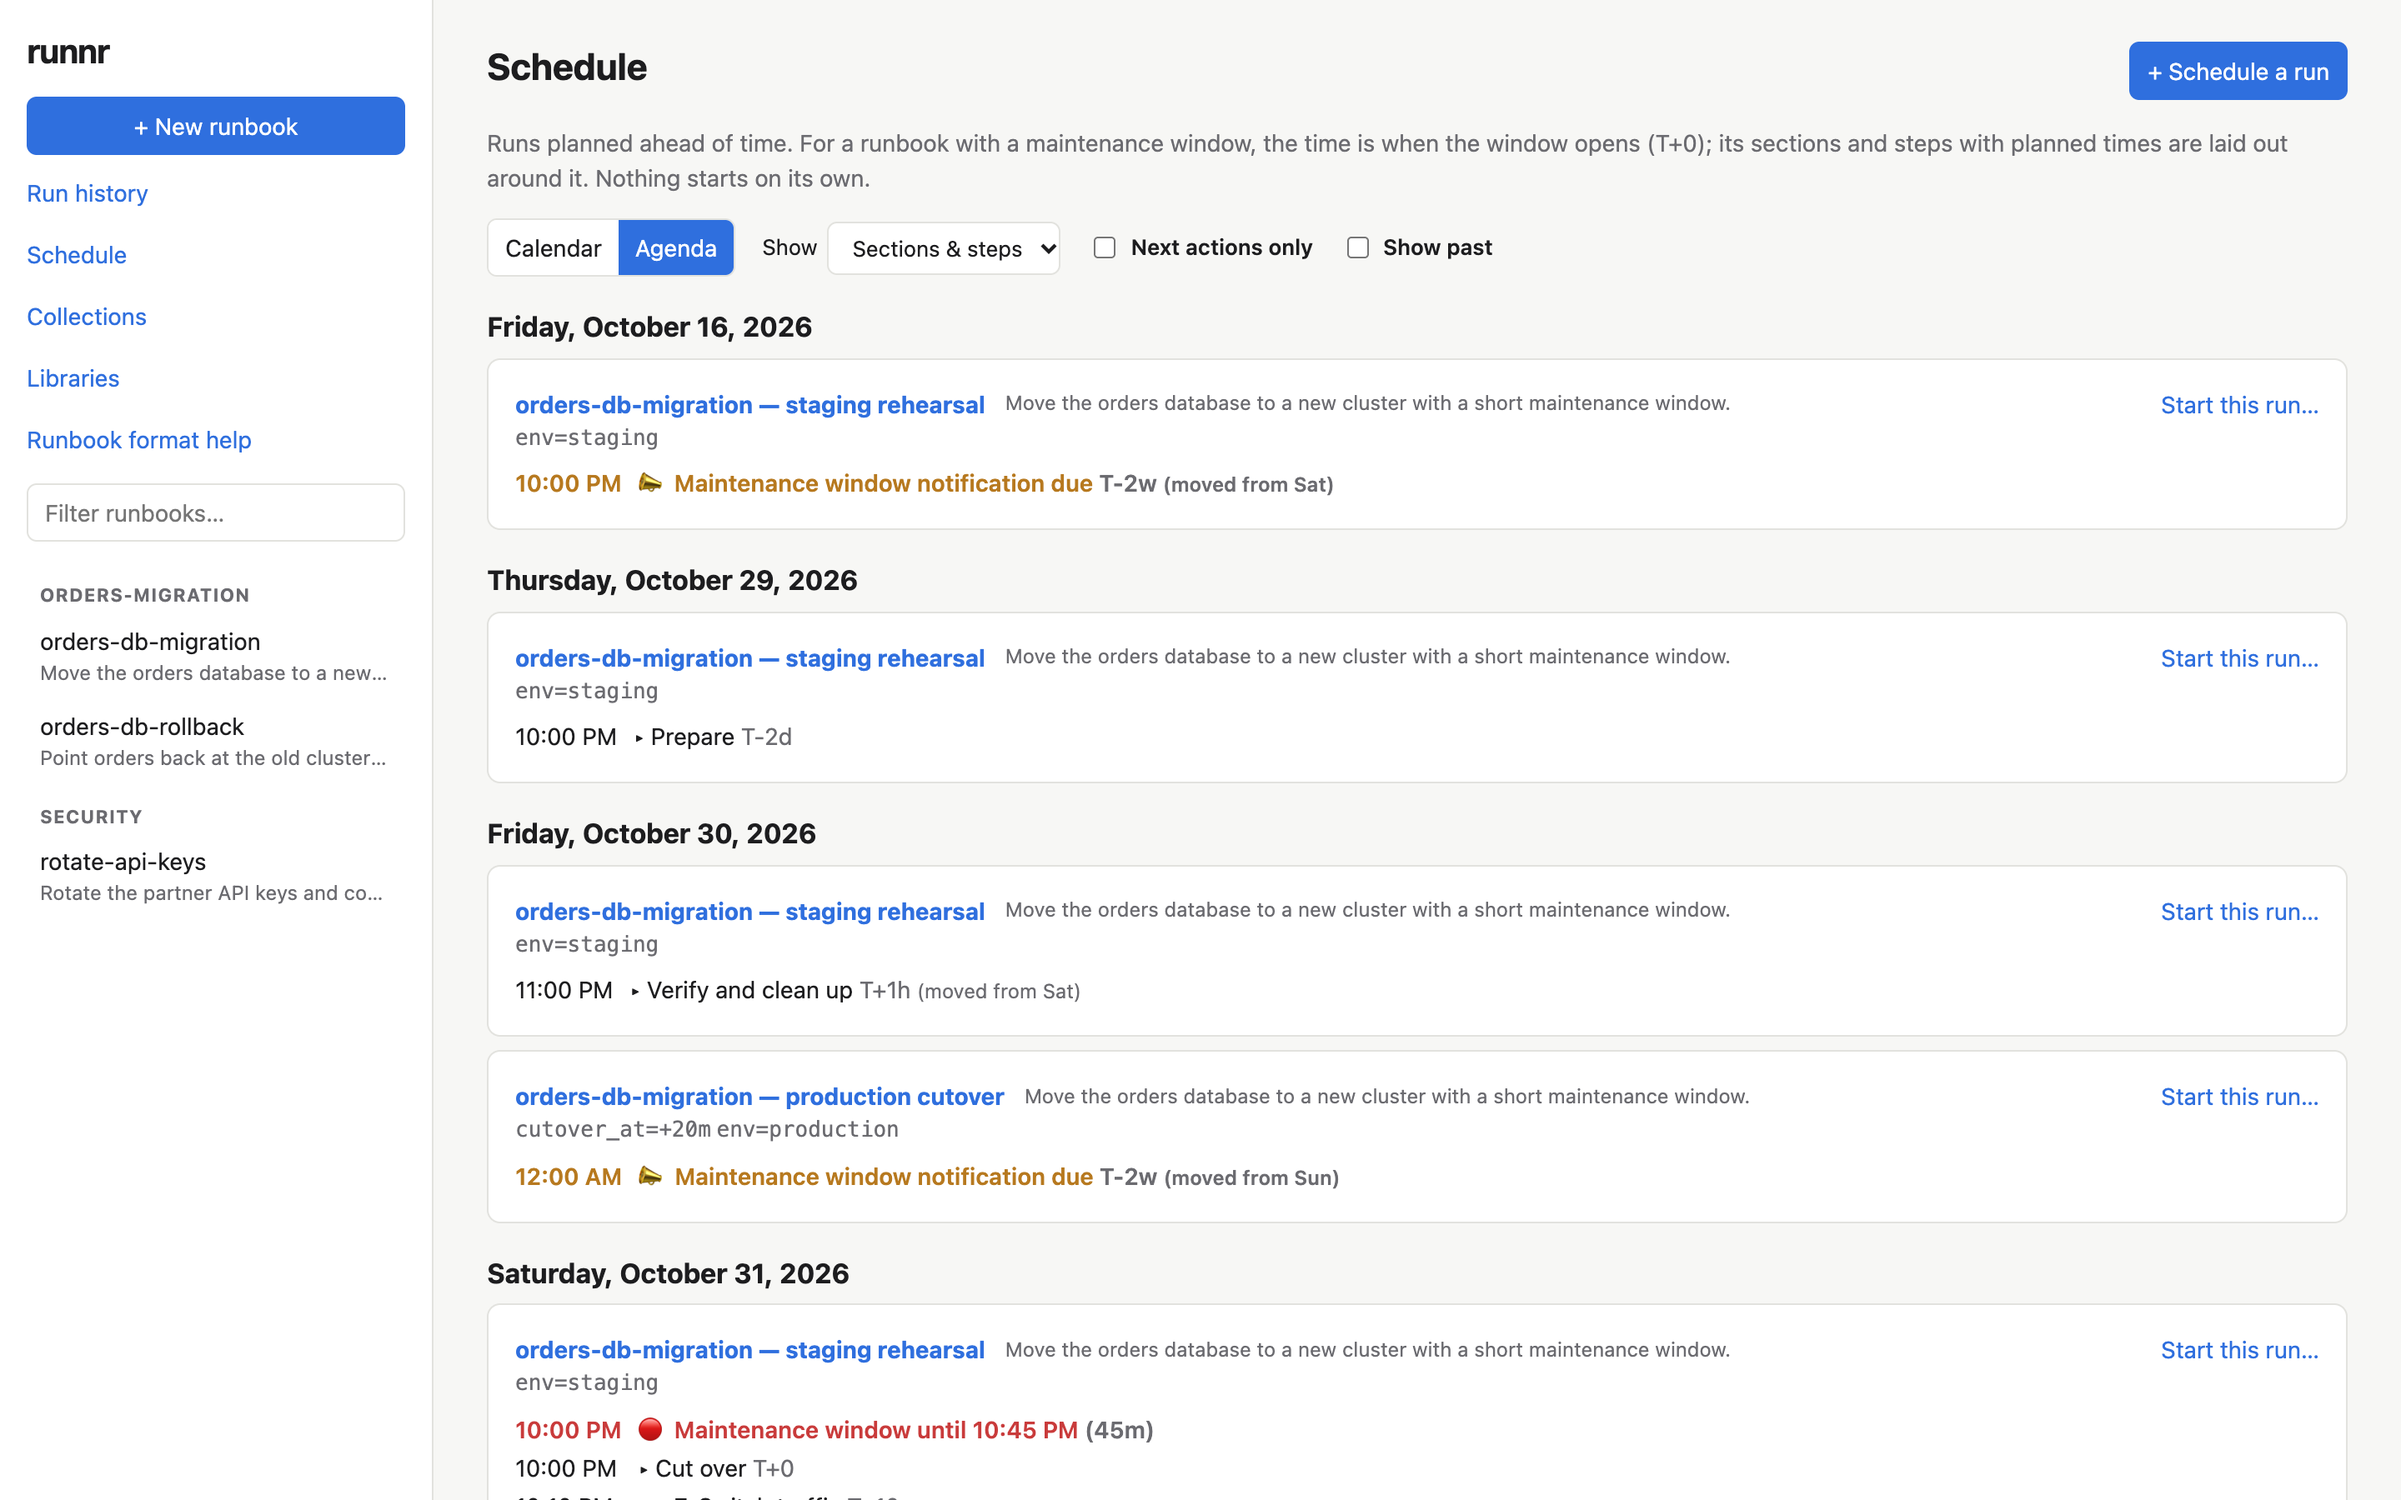
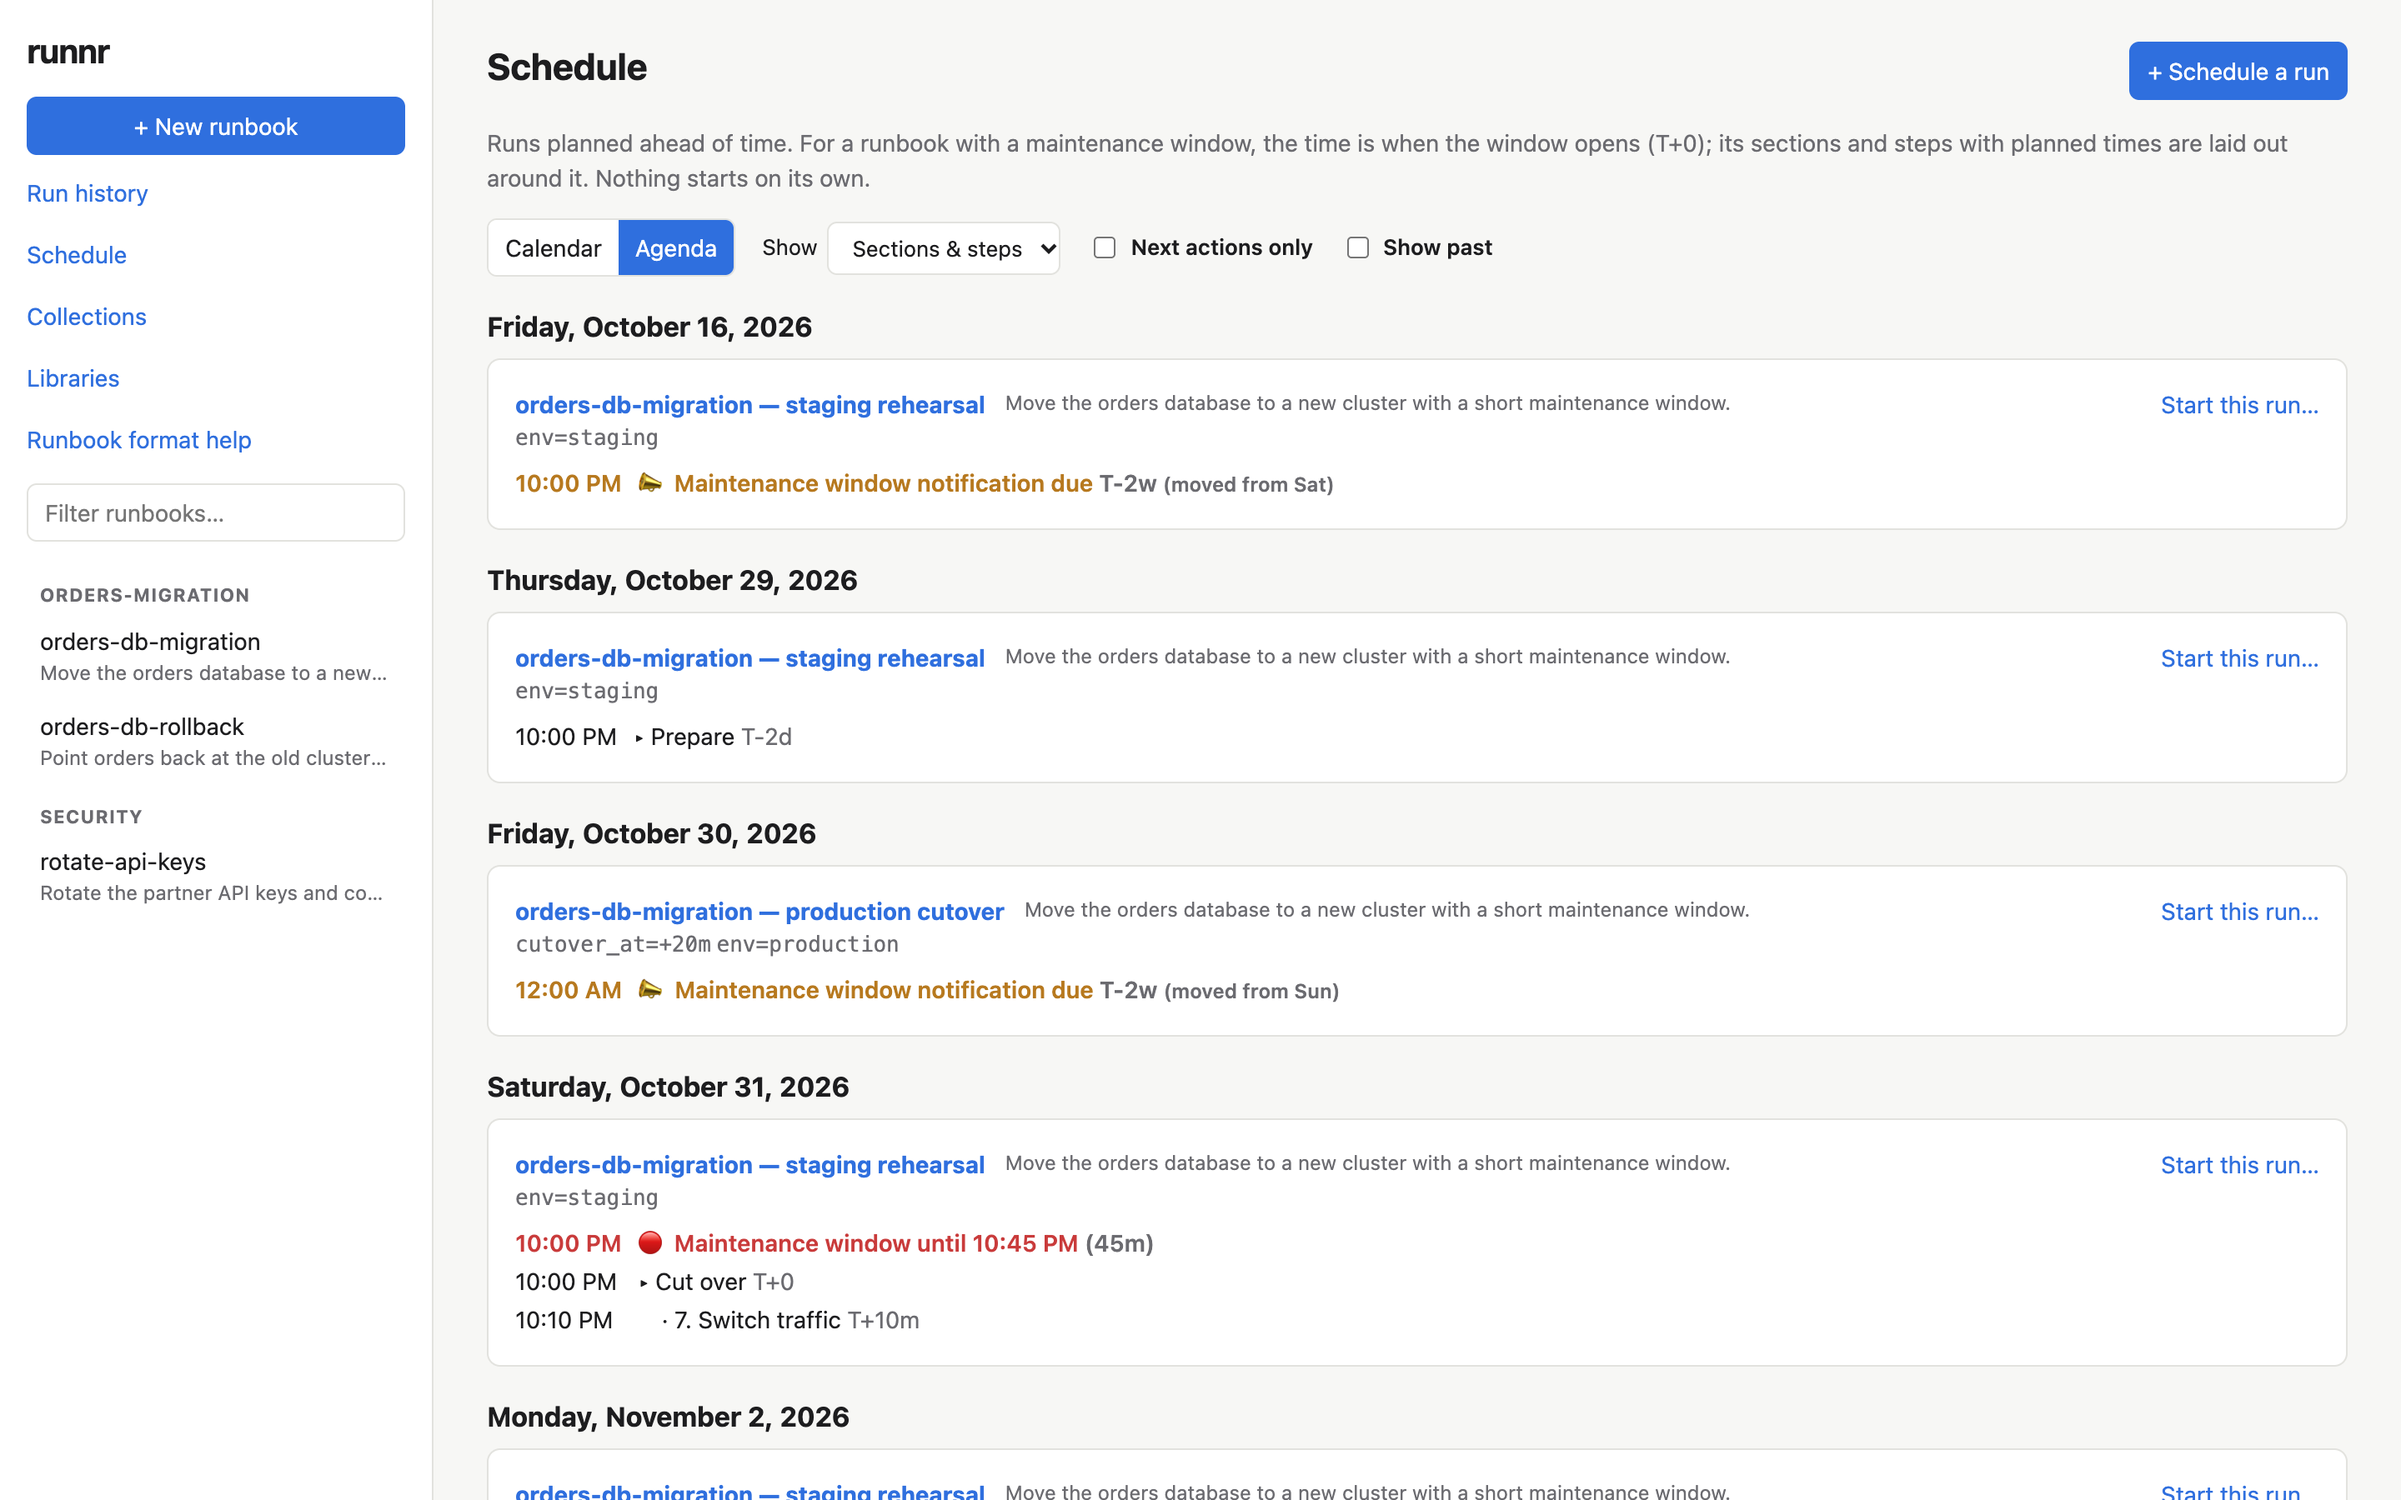
Docs: a CLI tour with terminal screenshots
docs/CLI.md walks through the CLI with the demo runbook: listing, inspect,
an interactive run (review, setup, tty, checks, manual, background, the
maintenance window, ways), a dangerous step out of sequence, unattended
runs, the schedule agenda and history. Linked from the README and the GUI
tour. The GUI calendar and agenda shots are retaken for the weekend fix.

diff --git a/docs/CLI.md b/docs/CLI.md
@@ -1,0 +1,116 @@
+# A tour of the runnr CLI
+
+The terminal side of runnr, using the same demo runbook as the
+[GUI tour](TOUR.md): moving an "orders" database to a new cluster. The CLI
+and the GUI share one store, so a runbook saved, scheduled or run in one
+shows up in the other. Every command is listed in the
+[README](../README.md#cli); `runnr <command> --help` has the details.
+
+- [Find your way around](#find-your-way-around)
+- [Look before you run](#look-before-you-run)
+- [Running](#running)
+- [Out of sequence](#out-of-sequence)
+- [Unattended](#unattended)
+- [Schedule](#schedule)
+- [History](#history)
+- [More](#more)
+
+## Find your way around
+
+Runbooks, the collections that group them, and the function libraries
+they share.
+
+![runnr list, collection list and lib list](screenshots/cli-list.png)
+
+## Look before you run
+
+`runnr inspect` lays a runbook out the way it will run: the sections and
+their purpose, the maintenance window, what each step is (run, manual,
+checks, ways…) and when it's planned relative to the window. Give it a step
+number to see that step's code, or its ways (`*` marks the preferred one).
+Add `-v key=value` to see the code with inputs filled in, or use `--all` to
+show every step.
+
+![runnr inspect, for the whole runbook and for one step](screenshots/cli-inspect.png)
+
+## Running
+
+`runnr run` asks for any inputs you didn't pass with `-v`, then shows the
+plan. Each step's result from last time is beside it. Before you start, you
+can skip steps, set pauses before or after a step, view a step's code, or
+step through every step.
+
+![Reviewing the plan before a run](screenshots/cli-review.png)
+
+Steps run in order. Setup (`always`) steps publish values that later steps
+use. A `tty` step connects you to its terminal, with the output recorded.
+Checks show each check's result and the attempt.
+
+![The first steps: setup, a tty step, checks](screenshots/cli-run.png)
+
+A manual step waits until you mark it done. A background step keeps running
+alongside the others: press `w` at any prompt to watch it. The step that
+opens the maintenance window says so and asks first (`confirm`). Planned
+times show against the window (T+10m, and how far ahead or behind you are).
+A step with ways runs its preferred way. At any prompt you can view the
+step, see what it did last time, look at the environment, add a note, open
+a shell, or change the step for this run.
+
+![A manual step, a background step, the window opening, a step with ways](screenshots/cli-run-window.png)
+
+The window closes with how long it took against its target. The background
+step stops after the step it was tied to, and the run ends with a summary.
+
+![The window closing and the end of the run](screenshots/cli-run-end.png)
+
+## Out of sequence
+
+`--from` starts later. A `dangerous` step that runs when earlier steps
+didn't lists what was skipped. To run it, you type its step number, not
+just `y`. A run that's aborted or fails can be continued with
+`runnr resume <run-id>`.
+
+![A dangerous step out of sequence](screenshots/cli-dangerous.png)
+
+## Unattended
+
+`-u` (`--unattended`) runs without prompts, for cron or CI. `-y`
+(`--yes`) approves `confirm` steps. Manual and `tty` steps can't run
+unattended unless the runbook says how (`unattended: pass` or `skip`).
+Steps set to ask which way to go (`choose`) need `--use-preferred` to take
+their preferred way.
+
+![An unattended run](screenshots/cli-unattended.png)
+
+## Schedule
+
+`runnr schedule add <runbook> --at "2026-10-31 22:00"` plans a run. The
+agenda lays out each planned run by day: when the window must be
+announced, the window itself, and when each section (or step, with
+`--detail steps`) is due. Dates that fall on a weekend move to a weekday
+(prep back to Friday, follow-up forward to Monday). Only the window stays
+on the weekend. `--next` shows just the next thing to do for each run.
+
+![runnr schedule list, in full and --next](screenshots/cli-schedule.png)
+
+## History
+
+Every run is kept with its inputs, the state its steps published, and what
+each step ran and printed. Secrets are masked. `runnr rerun <run-id>` runs
+again with the same inputs and compares each step with what it did last
+time.
+
+![runnr history, the list and one run](screenshots/cli-history.png)
+
+## More
+
+- `runnr new` / `runnr edit` open a runbook in `$EDITOR`. It's saved only
+  once it validates, and every save is a version (`runnr versions`,
+  `runnr show --version N`).
+- `runnr shell <runbook|run-id>` runs the setup steps, then opens a shell
+  with their environment and the runbook's library functions.
+- `runnr explain <runbook> [step]` asks a model what a step does, what it
+  relies on, and its risks. See "Ask Claude" in the README for setup.
+- `runnr export <runbook>` writes the runbook as Markdown to follow by hand,
+  with copy/paste-safe shell blocks.
+- `runnr serve --open` starts the GUI.

diff --git a/docs/TOUR.md b/docs/TOUR.md
@@ -1,7 +1,8 @@
 # A tour of runnr
 
 Screenshots of the web GUI (`runnr serve`), using a demo runbook that moves an
-"orders" database to a new cluster. Everything shown also works from the CLI.
+"orders" database to a new cluster. Everything shown also works from the
+[CLI](CLI.md).
 
 - [Runbooks](#runbooks)
 - [Running](#running)
